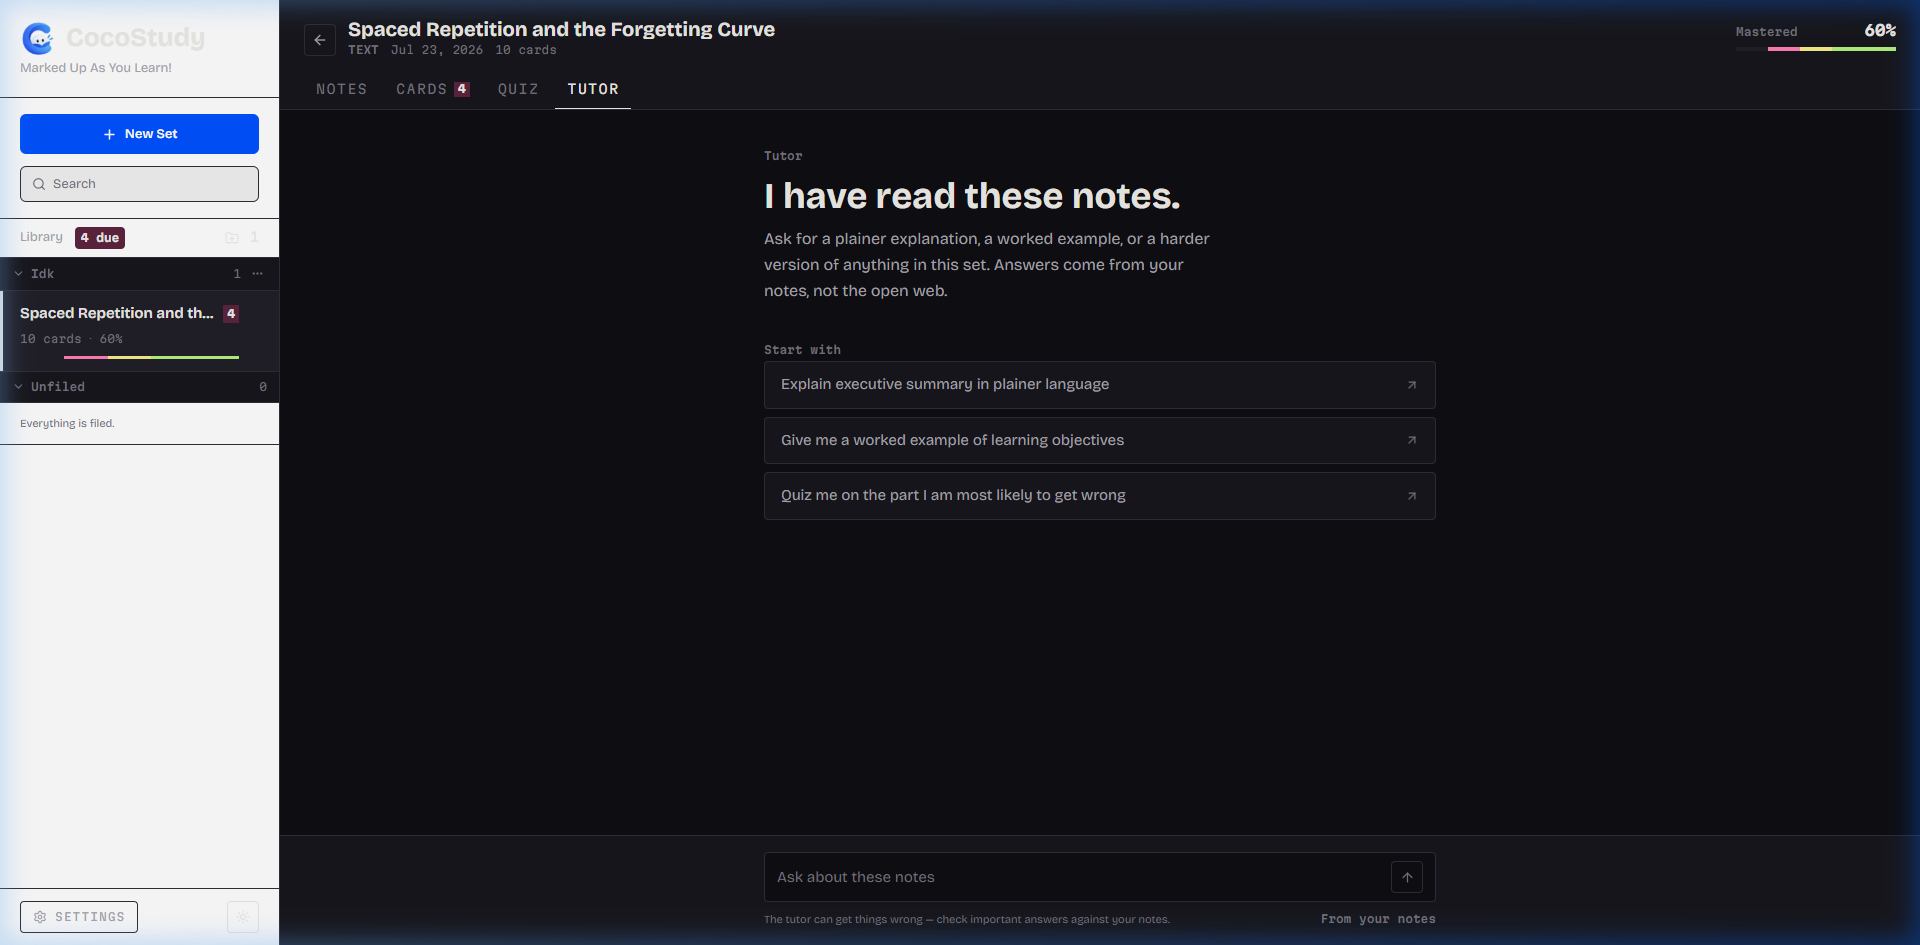
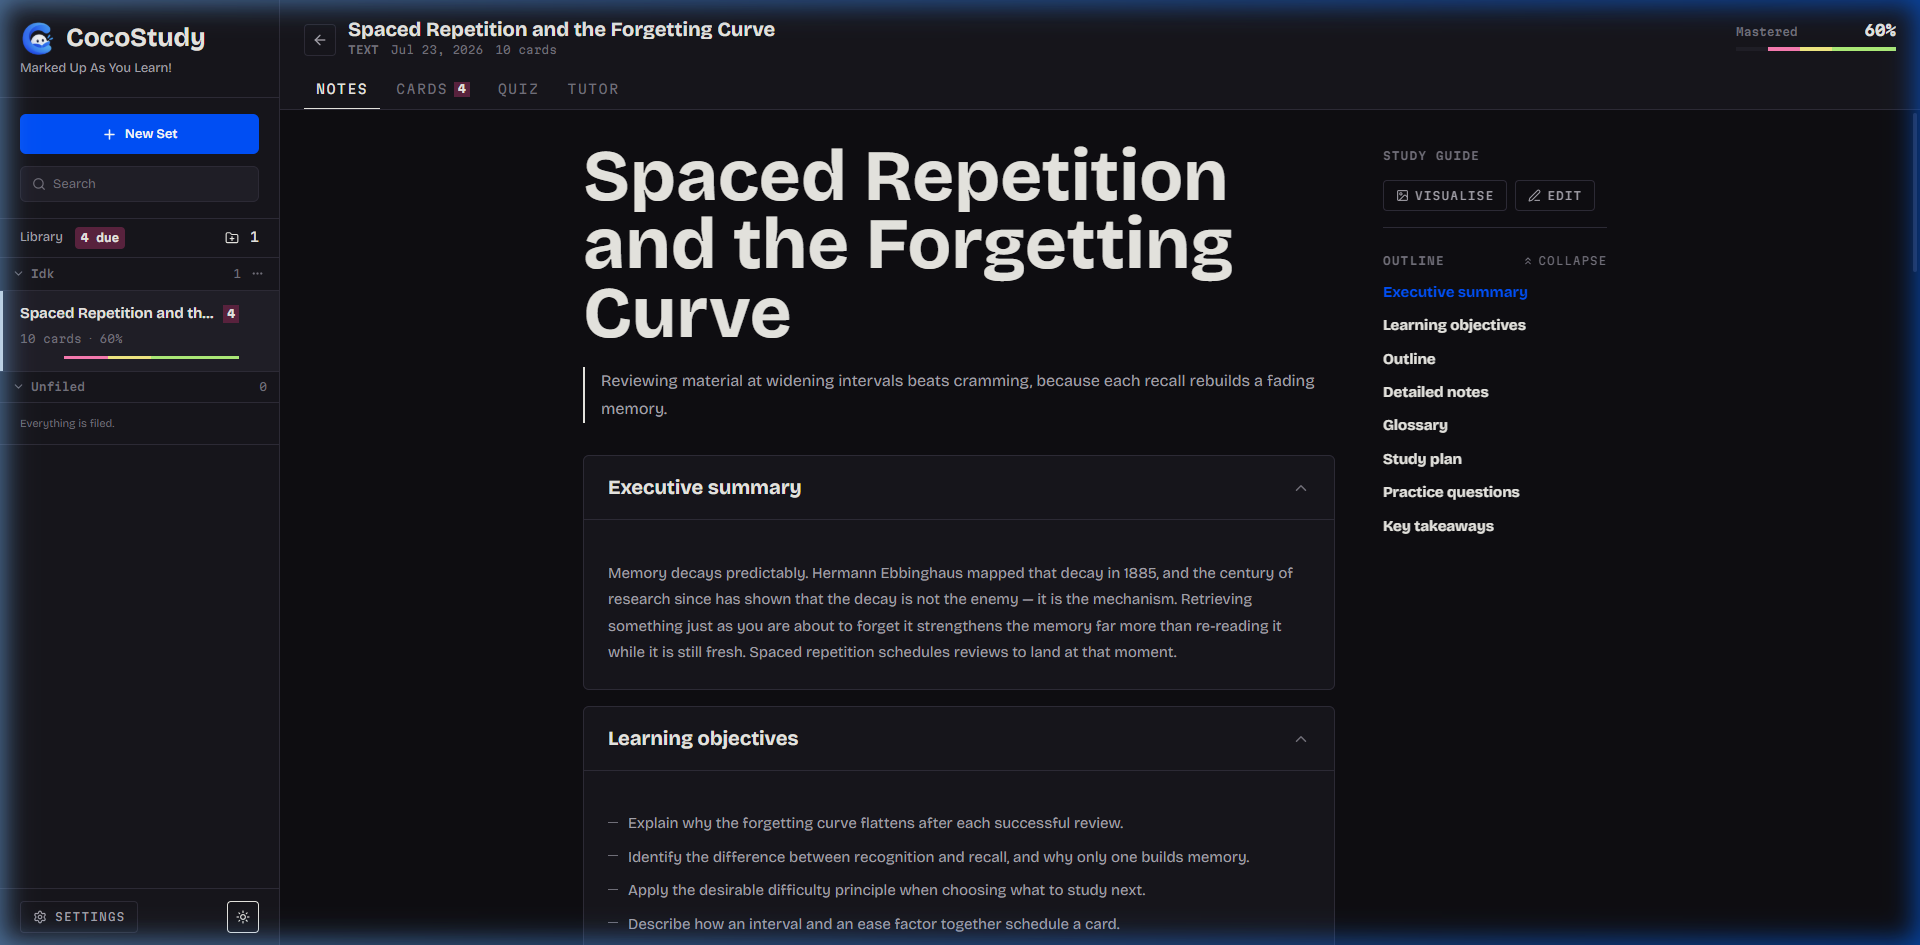
modified:   docs/screenshots/dark_mode_view.png 	modified:   src/components/intake/Intake.tsx 	modified:   src/components/notes/NotesView.tsx 	modified:   src/index.css 	modified:   src/lib/theme.ts

diff --git a/src/components/intake/Intake.tsx b/src/components/intake/Intake.tsx
@@ -71,7 +71,7 @@ export default function Intake({ onProcess, onLoadDemo, hasSets, status }: Intak
     <div ref={root} className="h-full overflow-y-auto">
       <div className="mx-auto max-w-3xl px-6 py-12 sm:px-10">
         {/* Hero — the thesis */}
-        <header data-reveal className="border border-[var(--rule)] bg-white dark:bg-[var(--paper-2)]">
+        <header data-reveal className="border border-[var(--rule)] bg-[var(--paper-2)]">
           <div className="flex items-center justify-between border-b border-[var(--rule)] px-6 py-2">
             <span className="text-2xs font-bold uppercase tracking-[0.1em] text-[var(--ink)]">
               New study set
@@ -88,7 +88,7 @@ export default function Intake({ onProcess, onLoadDemo, hasSets, status }: Intak
               <span className="relative inline-block mt-0.5">
                 <span
                   aria-hidden="true"
-                  className="absolute inset-0 bg-[#FEF08A] dark:bg-[#55501F] z-0 -mx-1 px-1"
+                  className="absolute inset-0 bg-[var(--yellow-wash)] z-0 -mx-1 px-1"
                 />
                 <span className="relative z-10 text-[#0052FF]">Know it</span>
               </span>{' '}
@@ -249,7 +249,7 @@ export default function Intake({ onProcess, onLoadDemo, hasSets, status }: Intak
                 value={text}
                 onChange={e => setText(e.target.value)}
                 placeholder="Paste anything you need to learn. Markdown works."
-                className="ruled mt-2 h-64 w-full resize-none border border-[var(--rule)] bg-white dark:bg-[var(--paper-2)] px-4 py-[0.4rem] leading-[1.6rem] text-[var(--ink)] placeholder:text-[var(--ink-3)] focus:border-[#0052FF] focus:outline-none"
+                className="mt-2 h-64 w-full resize-none rounded-[4px] border border-[var(--rule)] bg-[var(--paper-2)] p-4 leading-relaxed text-[var(--ink)] placeholder:text-[var(--ink-3)] focus:border-[#0052FF] focus:outline-none"
               />
               <div className="mt-4 flex items-center justify-between">
                 <span className="numeral text-2xs text-[var(--ink-3)]">

diff --git a/src/components/notes/NotesView.tsx b/src/components/notes/NotesView.tsx
@@ -391,7 +391,7 @@ export default function NotesView({ set, onUpdateSet }: NotesViewProps) {
                       <section
                         key={section.id}
                         id={section.id}
-                        className="rounded-[6px] border border-[var(--rule)] bg-[#FAF8F5]/90 dark:bg-[var(--paper-2)] overflow-hidden transition-colors"
+                        className="rounded-[6px] border border-[var(--rule)] bg-[var(--paper-2)] overflow-hidden transition-colors"
                       >
                         <button
                           onClick={() => toggleSection(section.id)}
@@ -414,7 +414,7 @@ export default function NotesView({ set, onUpdateSet }: NotesViewProps) {
                   })}
                 </div>
               ) : (
-                <div className="rounded-[6px] border border-[var(--rule)] bg-[#FAF8F5]/90 dark:bg-[var(--paper-2)] p-6">
+                <div className="rounded-[6px] border border-[var(--rule)] bg-[var(--paper-2)] p-6">
                   <MarkdownView>{set.summary}</MarkdownView>
                 </div>
               )}

diff --git a/src/lib/theme.ts b/src/lib/theme.ts
@@ -22,7 +22,11 @@ export interface ThemeTarget {
  * the OS preference is not consulted.
  */
 export function applyTheme(theme: Theme, root: ThemeTarget): void {
-  root.setAttribute('data-theme', normalizeTheme(theme));
+  const norm = normalizeTheme(theme);
+  root.setAttribute('data-theme', norm);
+  if ('classList' in root && (root as { classList?: DOMTokenList }).classList) {
+    (root as { classList: DOMTokenList }).classList.toggle('dark', norm === 'dark');
+  }
 }
 
 /** The palette to switch to when the toggle is pressed. */

diff --git a/src/index.css b/src/index.css
@@ -1,5 +1,7 @@
 @import "tailwindcss";
 
+@custom-variant dark (&:where([data-theme=dark], [data-theme=dark] *, .dark, .dark *));
+
 /* ===================================================================
    MARKED UP
    Ink is data. A term never seen is bare graphite; one being learned is
